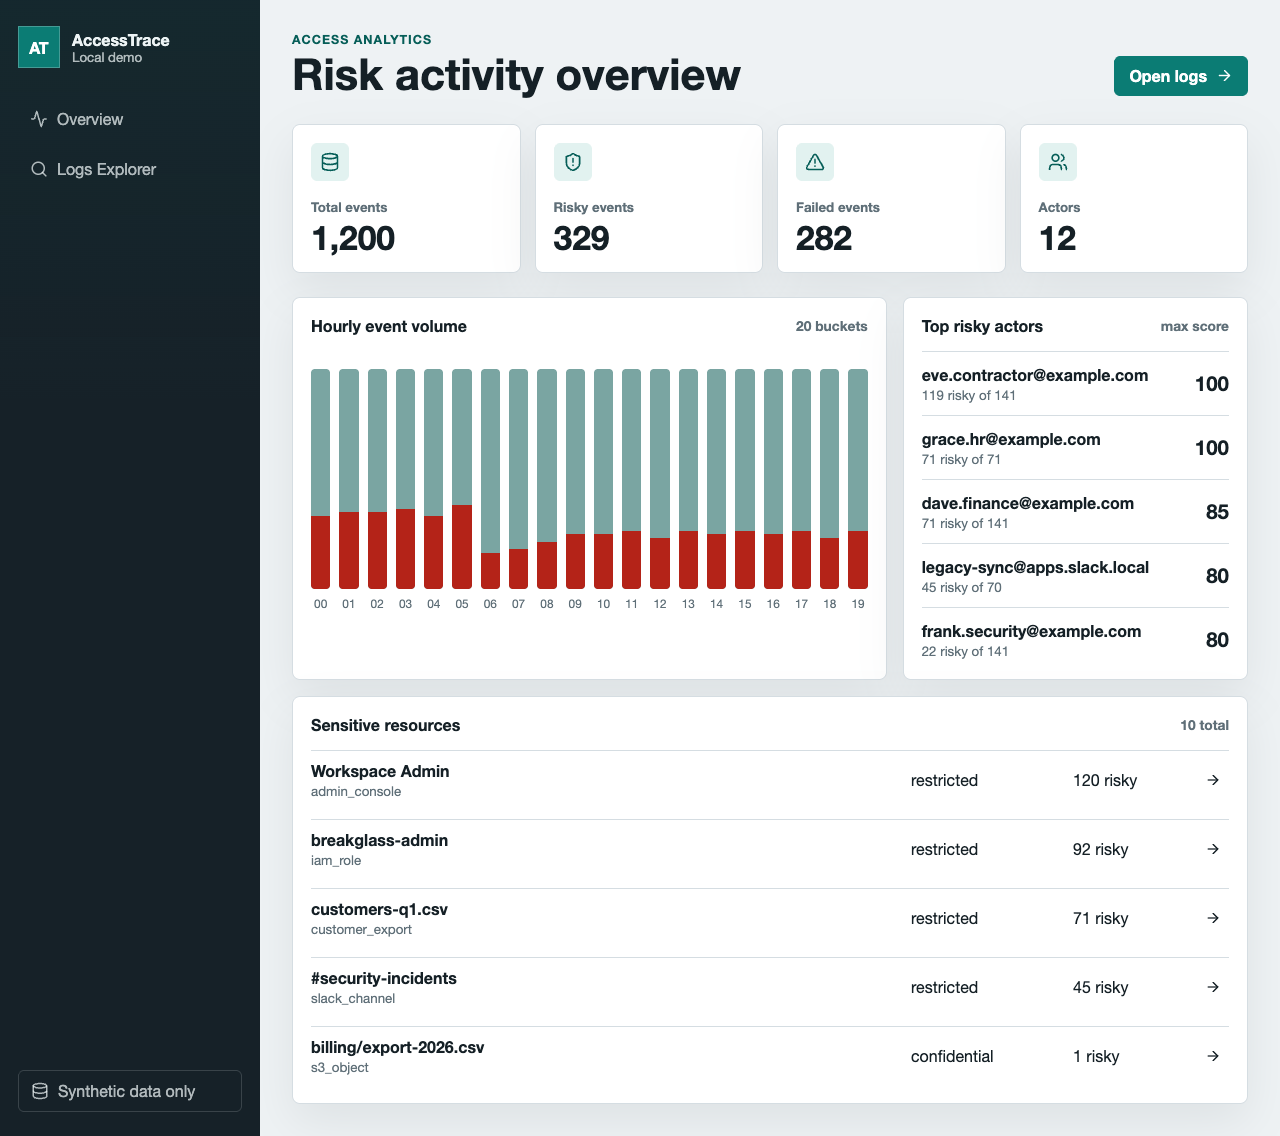
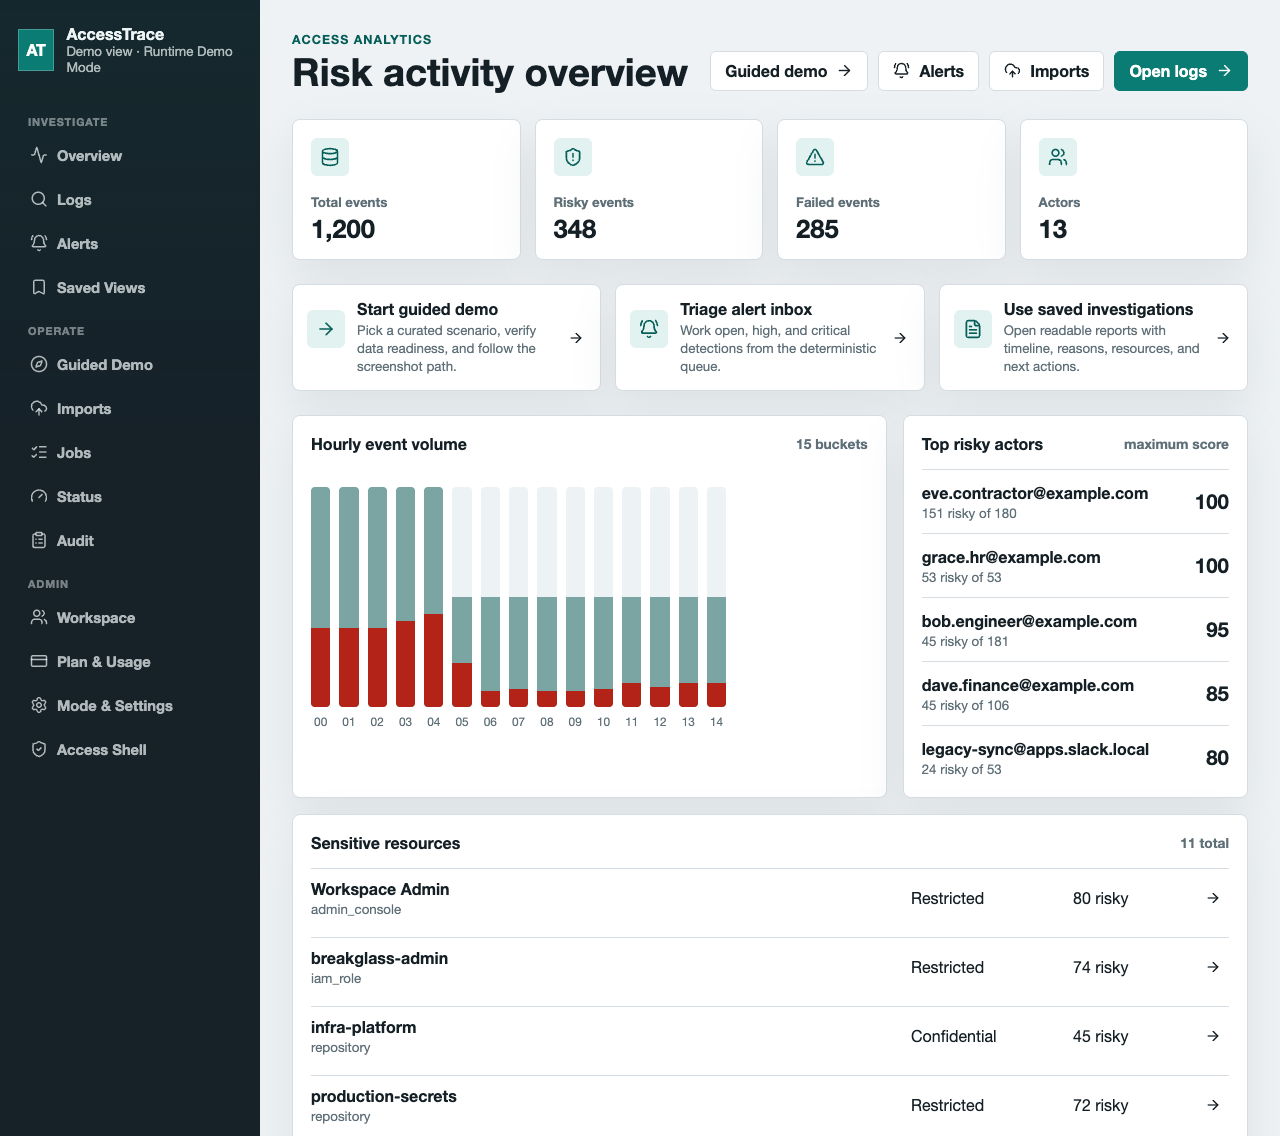
Refresh AccessTrace portfolio launch

diff --git a/lib/devimg.generated.ts b/lib/devimg.generated.ts
@@ -1,39 +1,39 @@
 // Generated by devimg. Do not edit by hand.
 export const DEVIMG_MANIFEST = {
   version: 1,
-  generated_at: "unix:1778417321",
+  generated_at: "unix:1778960089",
   config_hash: "blake3:fa70340dd612d8569ddd5b7c9552002d74c92e514f31be15e96fe0e3bd9d8b93",
   sources: [
     {
       source_path: "public/projects/accesstrace-overview.png",
-      source_hash: "blake3:f966621f26d4f9b65d03ae8df992bab373ed0ef8d05beff2303a9af6df9e62a3",
+      source_hash: "blake3:c6dba85b21fa92aeb867dbe194b6796f89fb30d22eb480df7007bae0ea0e5cc5",
       source_width: 1280,
       source_height: 1136,
-      source_bytes: 151031,
+      source_bytes: 198822,
       variants: [
         {
-          src: "/images/generated/projects/accesstrace-overview.project-banner.1200.a5cc41e55e3a.jpeg",
+          src: "/images/generated/projects/accesstrace-overview.project-banner.1200.55fb80d404d3.jpeg",
           output_path:
-            "public/images/generated/projects/accesstrace-overview.project-banner.1200.a5cc41e55e3a.jpeg",
+            "public/images/generated/projects/accesstrace-overview.project-banner.1200.55fb80d404d3.jpeg",
           preset: "project-banner",
           fit: "cover",
           width: 1200,
           height: 630,
           format: "jpeg",
-          bytes: 128986,
-          hash: "blake3:a5cc41e55e3acc325d8cc65fa02d3f5d14a9c5a4ef2b050390076b2cfe9da175"
+          bytes: 147942,
+          hash: "blake3:55fb80d404d372d6d412e1c0a2f5447fa39481c942f4ccadc63ff27b0ef8d0d3"
         },
         {
-          src: "/images/generated/projects/accesstrace-overview.project-card.640.e21ca73fb0f9.jpeg",
+          src: "/images/generated/projects/accesstrace-overview.project-card.640.b345c6e555ec.jpeg",
           output_path:
-            "public/images/generated/projects/accesstrace-overview.project-card.640.e21ca73fb0f9.jpeg",
+            "public/images/generated/projects/accesstrace-overview.project-card.640.b345c6e555ec.jpeg",
           preset: "project-card",
           fit: "cover",
           width: 640,
           height: 360,
           format: "jpeg",
-          bytes: 51018,
-          hash: "blake3:e21ca73fb0f9c547b0d99e8f5bb4a3f7e00ea142bf94bac27ee6a0c19f91ce60"
+          bytes: 62666,
+          hash: "blake3:b345c6e555ec50b4595db5aa566598ef726fc5b7e14bbf3cc8977176300919c9"
         }
       ]
     },

diff --git a/content/projects/en-US/accesstrace.md b/content/projects/en-US/accesstrace.md
@@ -1,7 +1,7 @@
 ---
 title: AccessTrace
 slug: accesstrace
-summary: Local cybersecurity analytics lab that normalizes synthetic AWS, Google Workspace, and Slack-style audit events into ClickHouse and Postgres, then exposes dashboard-ready investigation views.
+summary: Security analytics product prototype that turns synthetic audit events into an investigation workspace, with SaaS, self-hosted, and local MCP boundaries.
 dateStart: "2026-05-02T12:00:00.000Z"
 role: Software Engineer
 status: active
@@ -23,34 +23,39 @@ stack:
   - Zod
   - Vitest
 highlights:
-  - Built a deterministic local ingestion flow with 1,200 synthetic normalized events across AWS, Google Workspace, and Slack-style sources.
-  - Modeled raw payload storage, normalized access events, import tracking, and dashboard-shaped query scripts with non-empty results.
-  - Added typed server-side query functions, Zod filter validation, a first dashboard, ClickHouse summary-table experiments, and a local security review.
+  - Built a deterministic local ingestion flow with synthetic AWS, Google Workspace, Slack, and GitHub-style audit events.
+  - Designed a dashboard investigation workspace with alerts, reports, saved views, audit trail, notification previews, plan guardrails, and operations status.
+  - Added SaaS/self-hosted product boundaries and a local MCP interface for AI-agent assisted investigation without exposing credentials or real provider APIs.
 coverImage: /projects/accesstrace-overview.png
 links:
-  repo: https://github.cleisson.com/accesstrace
+  repo: https://github.com/cleissonom/accesstrace
 ---
 
-AccessTrace is a local product prototype for exploring how security audit logs can become usable investigation data.
+AccessTrace is a security analytics product prototype for exploring how audit logs can become usable investigation data.
 
-The project starts from synthetic source-shaped events, normalizes them into a shared access-event model, scores risk with explainable rules, stores analytics data in ClickHouse, stores import metadata in Postgres, and serves dashboard views for overview metrics, filtered logs, risky actors, sensitive resources, hourly volume, and event details.
+The project starts from synthetic source-shaped events, normalizes them into a shared access-event model, scores risk with explainable rules, stores analytics data in ClickHouse, stores operational metadata in Postgres, and serves dashboard views for overview metrics, logs, alerts, reports, imports, jobs, notifications, billing boundaries, and admin operations.
 
 ## What I built
 
 - Docker Compose setup for local ClickHouse and Postgres.
 - Idempotent database initialization for raw events, normalized events, import batches, import errors, and ClickHouse summary tables.
-- Deterministic synthetic event generator covering AWS CloudTrail-style, Google Workspace-style, and Slack audit-style records.
-- Normalization and risk scoring with focused Vitest coverage.
+- Deterministic synthetic event generation across AWS CloudTrail-style, Google Workspace-style, Slack audit-style, and GitHub Enterprise audit-style records.
 - Server-side query layer with typed functions, Zod validation, time-range filters, pagination, and ClickHouse query parameters.
-- First dashboard with overview, logs explorer, and event detail pages.
-- Documentation for architecture, synthetic data, ClickHouse learning notes, case study, screenshots, dependency audit, security review, and launch positioning.
+- Investigation workspace with alert workflow, readable reports, saved views, evidence exports, local notification previews, and admin audit trail.
+- SaaS direction with workspaces, users, roles, invitations, plan visibility, metering, entitlement guardrails, and operations status.
+- Self-hosted direction with runtime checks, Docker app profile, backup/restore notes, upgrade guidance, and support boundaries.
+- Local MCP server boundary so personal AI agents can inspect logs, alerts, imports, reports, and controlled workflow actions through tenant-scoped, redacted, audited tools.
 
 ## Why I built it
 
-I wanted a portfolio project that looks like a real system, not just a UI mockup. AccessTrace exercises data modeling, ingestion, analytics queries, repeatable local workflows, backend validation, dashboard design, and security review around a concrete cybersecurity use case.
+I wanted a portfolio project that looks like a real product, not just a UI mockup. AccessTrace exercises data modeling, ingestion, analytics queries, repeatable local workflows, backend validation, dashboard design, security review, product packaging, and operational boundaries around a concrete cybersecurity use case.
+
+## Where it is going
+
+The product direction is a Metabase-style deployment model: hosted SaaS for the easiest onboarding path, self-hosted for sensitive audit-log environments, and a future managed/serverless option. Real provider API connectors are intentionally deferred until there is a safe sandbox, credential strategy, data-handling approval, and production access-control decision.
 
 ## Current scope
 
-AccessTrace is intentionally local and synthetic. It does not connect to real Slack, Google Workspace, or AWS APIs yet. It has no auth, no production tenant isolation, and no production security claims.
+AccessTrace is intentionally local and synthetic today. It does not connect to real Slack, Google Workspace, GitHub, or AWS APIs yet. It has local auth and RBAC-shaped boundaries for demos, but not production authentication, billing, live notification delivery, production tenant isolation, or production security claims.
 
-That limitation is part of the design: the first version proves the data foundation and investigation workflow before adding real connectors or production controls.
+That limitation is part of the design: the current version proves the data foundation, investigation workflow, SaaS/self-hosted shape, and AI-agent access boundary before adding real connectors or production controls.

diff --git a/content/projects/es-ES/accesstrace.md b/content/projects/es-ES/accesstrace.md
@@ -1,7 +1,7 @@
 ---
 title: AccessTrace
 slug: accesstrace
-summary: Laboratorio local de analytics de ciberseguridad que normaliza eventos sinteticos de estilo AWS, Google Workspace y Slack en ClickHouse y Postgres, con vistas de investigacion para dashboard.
+summary: Prototipo de producto de analytics de seguridad que convierte eventos sinteticos de auditoria en un workspace de investigacion, con fronteras SaaS, self-hosted y MCP local.
 dateStart: "2026-05-02T12:00:00.000Z"
 role: Ingeniero de Software
 status: active
@@ -23,34 +23,39 @@ stack:
   - Zod
   - Vitest
 highlights:
-  - Construí un flujo local y determinístico de ingestión con 1.200 eventos normalizados sintéticos entre fuentes de estilo AWS, Google Workspace y Slack.
-  - Modelé almacenamiento de payloads crudos, eventos de acceso normalizados, seguimiento de importaciones y scripts de consulta con resultados en formato de dashboard.
-  - Añadí funciones tipadas de consulta en el servidor, validación de filtros con Zod, primer dashboard, experimentos con tablas resumen en ClickHouse y revisión de seguridad local.
+  - Construí un flujo local y determinístico de ingestión con eventos sintéticos de estilo AWS, Google Workspace, Slack y GitHub.
+  - Diseñé un workspace de investigación con alertas, reportes, saved views, auditoría, previews de notificación, límites de plan y estado operacional.
+  - Añadí fronteras de producto SaaS/self-hosted y una interfaz MCP local para investigación asistida por agentes de IA sin exponer credenciales ni APIs reales.
 coverImage: /projects/accesstrace-overview.png
 links:
-  repo: https://github.cleisson.com/accesstrace
+  repo: https://github.com/cleissonom/accesstrace
 ---
 
-AccessTrace es un prototipo local de producto para explorar cómo los logs de auditoría de seguridad pueden convertirse en datos útiles para investigación.
+AccessTrace es un prototipo de producto de analytics de seguridad para explorar cómo los logs de auditoría pueden convertirse en datos útiles para investigación.
 
-El proyecto empieza con eventos sintéticos con formas parecidas a fuentes reales, los normaliza en un modelo común de eventos de acceso, calcula riesgo con reglas explicables, almacena datos analíticos en ClickHouse, guarda metadatos de importación en Postgres y entrega vistas de dashboard para métricas generales, logs filtrados, actores de mayor riesgo, recursos sensibles, volumen por hora y detalles de eventos.
+El proyecto empieza con eventos sintéticos con formas parecidas a fuentes reales, los normaliza en un modelo común de eventos de acceso, calcula riesgo con reglas explicables, almacena datos analíticos en ClickHouse, guarda metadatos operacionales en Postgres y entrega vistas de dashboard para métricas generales, logs, alertas, reportes, importaciones, jobs, notificaciones, límites de billing y operaciones administrativas.
 
 ## Qué construí
 
 - Setup con Docker Compose para ClickHouse y Postgres locales.
 - Inicialización idempotente de base de datos para eventos crudos, eventos normalizados, lotes de importación, errores de importación y tablas resumen en ClickHouse.
-- Generador determinístico de eventos sintéticos que cubre registros de estilo AWS CloudTrail, Google Workspace y Slack Audit Logs.
-- Normalización y puntuación de riesgo con cobertura enfocada en Vitest.
+- Generación determinística de eventos sintéticos que cubre registros de estilo AWS CloudTrail, Google Workspace, Slack Audit Logs y GitHub Enterprise Audit Log.
 - Capa de consultas del lado servidor con funciones tipadas, validación con Zod, filtros por período, paginación y query parameters de ClickHouse.
-- Primer dashboard con vista general, explorador de logs y página de detalle de evento.
-- Documentación de arquitectura, datos sintéticos, aprendizajes de ClickHouse, caso de estudio, screenshots, auditoría de dependencias, revisión de seguridad y posicionamiento de lanzamiento.
+- Workspace de investigación con workflow de alertas, reportes legibles, saved views, exportación de evidencias, previews locales de notificación y auditoría administrativa.
+- Dirección SaaS con workspaces, usuarios, roles, invitaciones, visibilidad de plan, metering, guardrails de entitlement y estado operacional.
+- Dirección self-hosted con checks de runtime, perfil Docker para app, notas de backup/restore, flujo de upgrade y fronteras de soporte.
+- Frontera MCP local para que agentes de IA consulten logs, alertas, importaciones, reportes y workflows controlados mediante herramientas con scope de tenant, redacción y auditoría.
 
 ## Por qué lo construí
 
-Quería un proyecto de portafolio que pareciera un sistema real, no solo una interfaz. AccessTrace ejercita modelado de datos, ingestión, consultas analíticas, flujos locales reproducibles, validación backend, diseño de dashboard y revisión de seguridad en un caso concreto de ciberseguridad.
+Quería un proyecto de portafolio que pareciera un producto real, no solo una interfaz. AccessTrace ejercita modelado de datos, ingestión, consultas analíticas, flujos locales reproducibles, validación backend, diseño de dashboard, revisión de seguridad, packaging de producto y fronteras operacionales en un caso concreto de ciberseguridad.
+
+## Hacia dónde va
+
+La dirección del producto es un modelo de despliegue estilo Metabase: SaaS hospedado para onboarding simple, self-hosted para entornos con logs de auditoría sensibles y una opción futura gestionada/serverless. Los conectores reales siguen intencionalmente diferidos hasta tener sandbox seguro, estrategia de credenciales, aprobación de manejo de datos y una decisión de access-control de producción.
 
 ## Alcance actual
 
-AccessTrace es intencionalmente local y sintético. Todavía no se conecta a APIs reales de Slack, Google Workspace o AWS. Tampoco tiene autenticación, aislamiento multi-tenant de producción ni promesas de seguridad para producción.
+AccessTrace es intencionalmente local y sintético hoy. Todavía no se conecta a APIs reales de Slack, Google Workspace, GitHub o AWS. Tiene auth local y fronteras con forma de RBAC para demos, pero no autenticación de producción, billing, entrega real de notificaciones, aislamiento multi-tenant de producción ni promesas de seguridad para producción.
 
-Esa limitación forma parte del diseño: la primera versión prueba la base de datos y el flujo de investigación antes de agregar conectores reales o controles de producción.
+Esa limitación forma parte del diseño: la versión actual prueba la base de datos, el flujo de investigación, la forma SaaS/self-hosted y la frontera de acceso vía agentes de IA antes de agregar conectores reales o controles de producción.

diff --git a/content/projects/pt-BR/accesstrace.md b/content/projects/pt-BR/accesstrace.md
@@ -1,7 +1,7 @@
 ---
 title: AccessTrace
 slug: accesstrace
-summary: Laboratório local de analytics para cibersegurança que normaliza eventos sintéticos no estilo AWS, Google Workspace e Slack em ClickHouse e Postgres, com views de investigação para dashboard.
+summary: Protótipo de produto de analytics para segurança que transforma eventos sintéticos de auditoria em um workspace de investigação, com fronteiras SaaS, self-hosted e MCP local.
 dateStart: "2026-05-02T12:00:00.000Z"
 role: Engenheiro de Software
 status: active
@@ -23,34 +23,39 @@ stack:
   - Zod
   - Vitest
 highlights:
-  - Criei um fluxo local determinístico de ingestão com 1.200 eventos normalizados sintéticos entre fontes no estilo AWS, Google Workspace e Slack.
-  - Modelei armazenamento de payloads brutos, eventos de acesso normalizados, rastreamento de importações e scripts de consulta com resultados no formato de dashboard.
-  - Adicionei funções tipadas de consulta no servidor, validação de filtros com Zod, primeiro dashboard, experimentos com tabelas-resumo no ClickHouse e revisão de segurança local.
+  - Criei um fluxo local determinístico de ingestão com eventos sintéticos no estilo AWS, Google Workspace, Slack e GitHub.
+  - Desenhei um workspace de investigação com alertas, relatórios, saved views, trilha de auditoria, previews de notificação, limites de plano e status operacional.
+  - Adicionei fronteiras de produto para SaaS/self-hosted e uma interface MCP local para investigação assistida por agentes de IA sem expor credenciais ou APIs reais.
 coverImage: /projects/accesstrace-overview.png
 links:
-  repo: https://github.cleisson.com/accesstrace
+  repo: https://github.com/cleissonom/accesstrace
 ---
 
-AccessTrace é um protótipo local de produto para explorar como logs de auditoria de segurança podem virar dados úteis para investigação.
+AccessTrace é um protótipo de produto de analytics para segurança que explora como logs de auditoria podem virar dados úteis para investigação.
 
-O projeto parte de eventos sintéticos com formatos parecidos com fontes reais, normaliza tudo em um modelo comum de eventos de acesso, calcula risco com regras explicáveis, armazena dados analíticos no ClickHouse, guarda metadados de importação no Postgres e entrega views de dashboard para métricas gerais, logs filtrados, atores de maior risco, recursos sensíveis, volume por hora e detalhes de eventos.
+O projeto parte de eventos sintéticos com formatos parecidos com fontes reais, normaliza tudo em um modelo comum de eventos de acesso, calcula risco com regras explicáveis, armazena dados analíticos no ClickHouse, guarda metadados operacionais no Postgres e entrega views de dashboard para métricas gerais, logs, alertas, relatórios, importações, jobs, notificações, limites de billing e operações administrativas.
 
 ## O que eu construí
 
 - Setup com Docker Compose para ClickHouse e Postgres locais.
 - Inicialização idempotente do banco para eventos brutos, eventos normalizados, lotes de importação, erros de importação e tabelas-resumo no ClickHouse.
-- Gerador determinístico de eventos sintéticos cobrindo registros no estilo AWS CloudTrail, Google Workspace e Slack Audit Logs.
-- Normalização e score de risco com cobertura focada em Vitest.
+- Geração determinística de eventos sintéticos cobrindo registros no estilo AWS CloudTrail, Google Workspace, Slack Audit Logs e GitHub Enterprise Audit Log.
 - Camada de consultas no servidor com funções tipadas, validação com Zod, filtros por período, paginação e query parameters do ClickHouse.
-- Primeiro dashboard com visão geral, explorador de logs e página de detalhe do evento.
-- Documentação de arquitetura, dados sintéticos, aprendizados de ClickHouse, estudo de caso, screenshots, auditoria de dependências, revisão de segurança e posicionamento de lançamento.
+- Workspace de investigação com workflow de alertas, relatórios legíveis, saved views, exportação de evidências, previews locais de notificação e trilha de auditoria administrativa.
+- Direção SaaS com workspaces, usuários, papéis, convites, visibilidade de plano, metering, guardrails de entitlement e status operacional.
+- Direção self-hosted com checks de runtime, perfil Docker para app, notas de backup/restore, fluxo de upgrade e fronteiras de suporte.
+- Fronteira MCP local para agentes de IA consultarem logs, alertas, importações, relatórios e workflows controlados por ferramentas tenant-scoped, redigidas e auditadas.
 
 ## Por que eu construí
 
-Eu queria um projeto de portfólio que parecesse um sistema real, não apenas uma interface. AccessTrace exercita modelagem de dados, ingestão, consultas analíticas, fluxos locais reproduzíveis, validação backend, design de dashboard e revisão de segurança em um caso concreto de cibersegurança.
+Eu queria um projeto de portfólio que parecesse um produto real, não apenas uma interface. AccessTrace exercita modelagem de dados, ingestão, consultas analíticas, fluxos locais reproduzíveis, validação backend, design de dashboard, revisão de segurança, empacotamento de produto e fronteiras operacionais em um caso concreto de cibersegurança.
+
+## Para onde ele está indo
+
+A direção do produto é um modelo de implantação no estilo Metabase: SaaS hospedado para onboarding simples, self-hosted para ambientes com logs de auditoria sensíveis e uma opção futura gerenciada/serverless. Conectores reais continuam intencionalmente adiados até existir sandbox seguro, estratégia de credenciais, aprovação de tratamento de dados e decisão de access-control de produção.
 
 ## Escopo atual
 
-AccessTrace é intencionalmente local e sintético. Ele ainda não se conecta a APIs reais do Slack, Google Workspace ou AWS. Também não possui autenticação, isolamento multi-tenant de produção nem promessas de segurança para produção.
+AccessTrace é intencionalmente local e sintético hoje. Ele ainda não se conecta a APIs reais do Slack, Google Workspace, GitHub ou AWS. Ele possui auth local e fronteiras no formato de RBAC para demos, mas não possui autenticação de produção, billing, entrega real de notificações, isolamento multi-tenant de produção nem promessas de segurança para produção.
 
-Essa limitação faz parte do desenho: a primeira versão prova a base de dados e o fluxo de investigação antes de adicionar conectores reais ou controles de produção.
+Essa limitação faz parte do desenho: a versão atual prova a base de dados, o fluxo de investigação, a forma SaaS/self-hosted e a fronteira de acesso via agente de IA antes de adicionar conectores reais ou controles de produção.